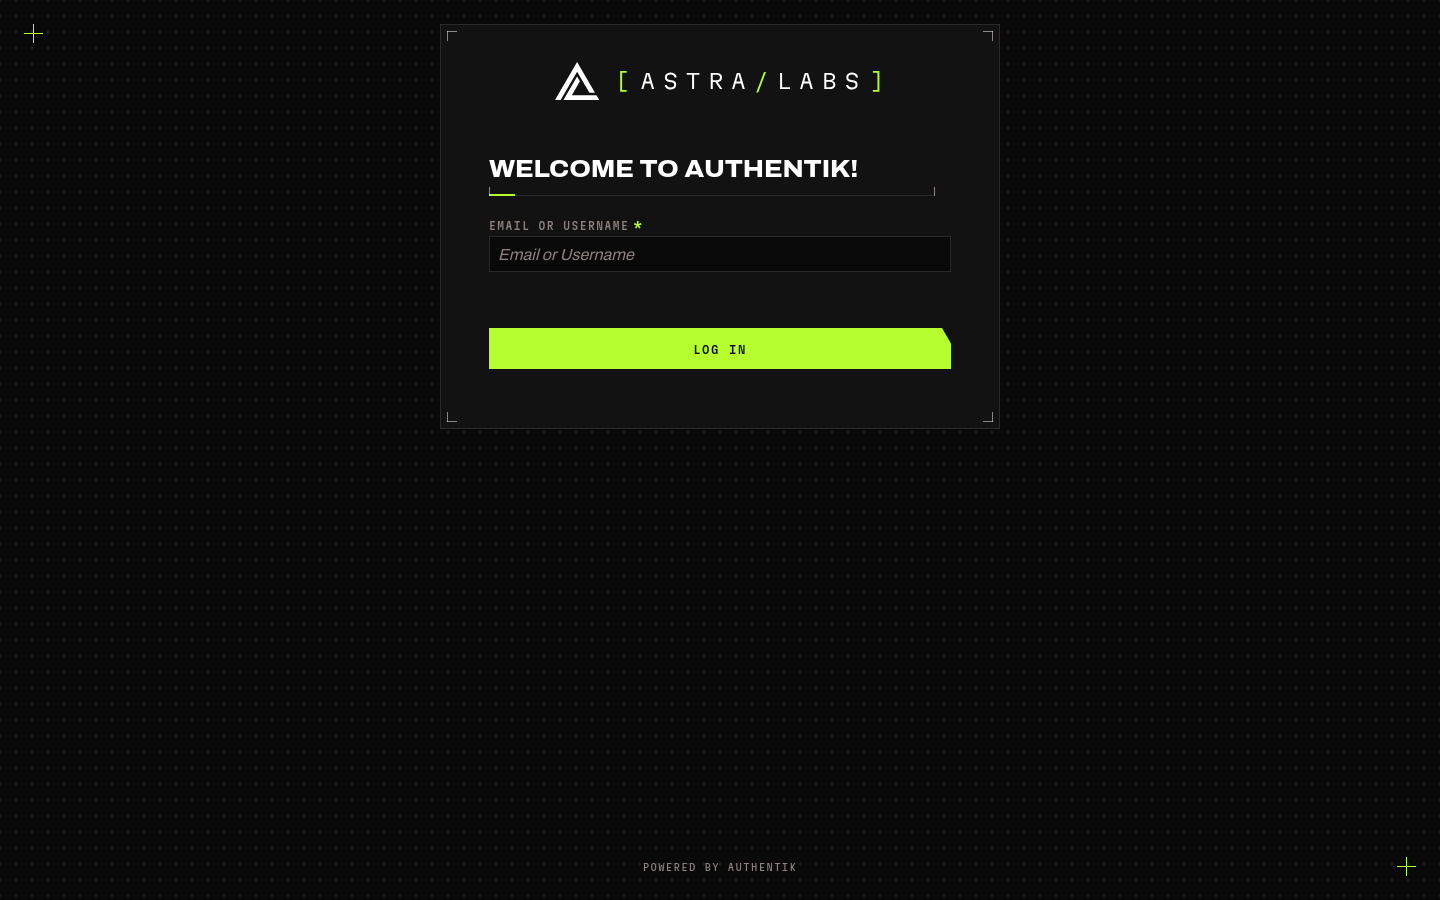
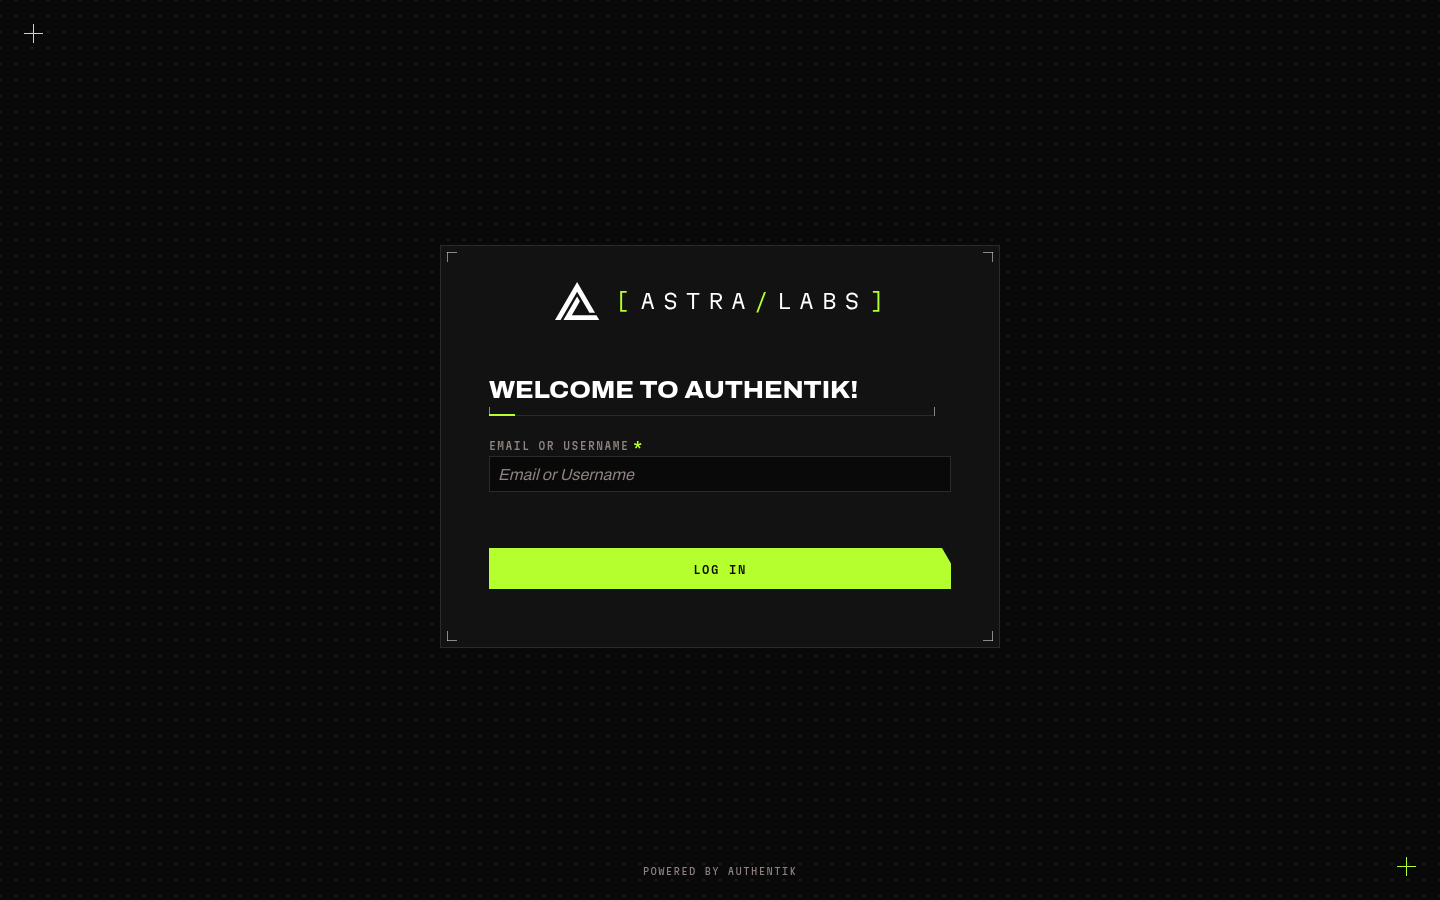
Fix mobile CSS for authentik

diff --git a/authentik/astralabs.css b/authentik/astralabs.css
@@ -174,7 +174,7 @@ html body {
 
 /* The marks hang off the login container, which fills the viewport and leaves its
    pseudo-elements free (PatternFly already uses the background layer's). They settle
-   24px in from the corners. */
+   24px in from the corners, 16px on phones. */
 .pf-c-login {
   position: relative;
   --al-reg-in: 24px;
@@ -227,12 +227,48 @@ html body {
   100% { opacity: 1; left: var(--al-reg-far); top: var(--al-reg-far); }
 }
 
-/* on phones the card fills the screen edge to edge, so there's no background for them */
 @media (max-width: 480px) {
-  .pf-c-login::before,
-  .pf-c-login::after {
-    display: none;
-  }
+  .pf-c-login { --al-reg-in: 16px; }
+}
+
+/* ---------- login layout ----------
+   One column: the card centred in the screen, the footer pinned to the bottom. Heights use the
+   visible viewport (dvh): authentik sizes this with 100vh, which on phones is taller than the
+   screen, so the footer sat below the fold. The padding keeps clear of the registration marks.
+   Only the default (stacked) layout; the sidebar layouts are left as authentik draws them. */
+.pf-c-login:not([data-layout^="sidebar"]) {
+  min-height: 100vh;
+  min-height: 100dvh;
+  box-sizing: border-box;
+  display: flex !important;
+  flex-direction: column !important;
+  flex-wrap: nowrap !important;
+  align-items: center !important;
+  justify-content: center !important;
+  padding: 3.5rem 1rem 1.25rem !important;
+}
+
+/* authentik's wrapper around the card and footer: fill the space instead of a fixed 100vh */
+.pf-c-login:not([data-layout^="sidebar"]) .ak-login-container {
+  flex: 1 1 auto;
+  height: auto !important;
+  min-height: 0;
+  width: 100%;
+  max-width: 35rem;
+}
+
+.pf-c-login:not([data-layout^="sidebar"]) .pf-c-login__main {
+  flex: 0 0 auto !important;
+  width: 100%;
+  max-width: 35rem;
+  margin: auto 0 !important;
+}
+
+.pf-c-login:not([data-layout^="sidebar"]) .pf-c-login__footer {
+  flex: 0 0 auto !important;
+  width: 100%;
+  margin-top: 1.5rem;
+  padding-bottom: 0 !important;
 }
 
 /* ---------- login card ---------- */

diff --git a/authentik/README.md b/authentik/README.md
@@ -93,7 +93,8 @@ python3 -c "import json; print(json.dumps({'branding_custom_css': open('astralab
 
 **Login and enrolment flows**
 - Carbon background with a faint 16px dot grid.
-- Two Acid registration marks on the background. On load, each blinks in and out at three spots with hard cuts, then strobes into its corner (top-left and bottom-right) and holds, like the brand's Registration align. With reduced motion turned on they simply sit in the corners. They're hidden on phones, where the card fills the screen.
+- Two Acid registration marks on the background. On load, each blinks in and out at three spots with hard cuts, then strobes into its corner (top-left and bottom-right) and holds, like the brand's Registration align. With reduced motion turned on they simply sit in the corners. On phones they sit 16px in.
+- The card sits centred in the screen with "Powered by authentik" pinned to the bottom. The page is sized to the visible screen (`dvh`), so phones don't have to scroll past the address bar to reach the footer.
 - The card is a plate panel with a hairline border and bone corner ticks, and no shadow.
 - The stage title is heavy uppercase Archivo over a measurement rule (an Acid index segment, then a hairline with end ticks).
 - Field labels are mono uppercase. Required markers are Acid.
